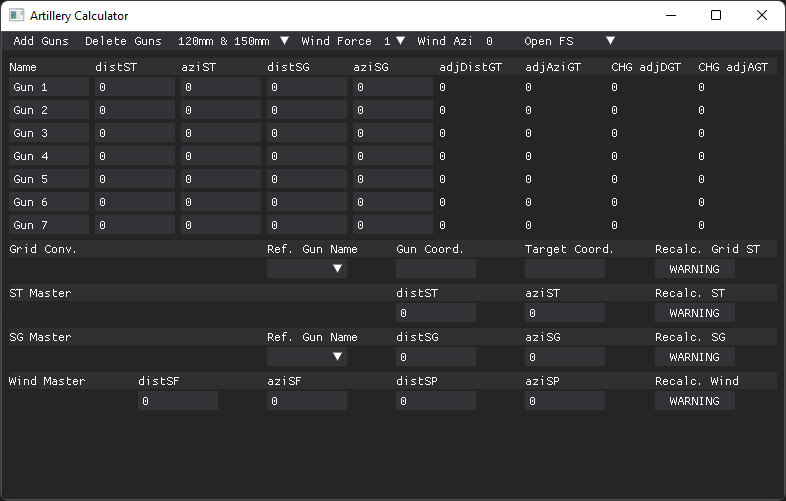
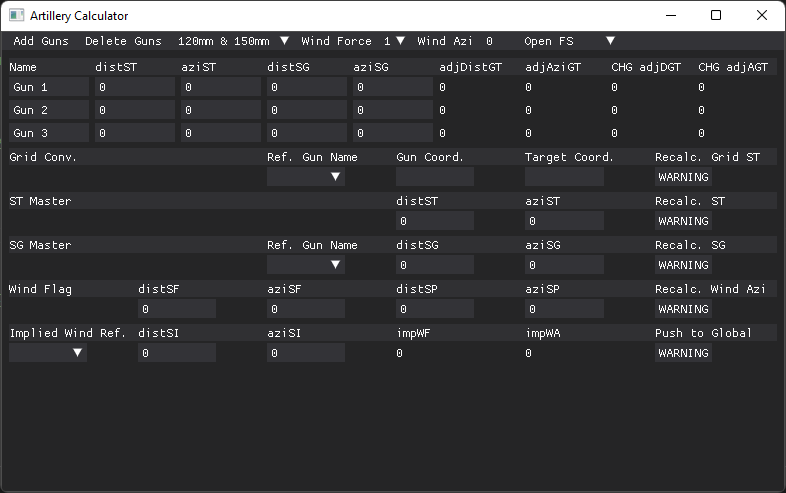
fix bugs

diff --git a/src/calcHelper.py b/src/calcHelper.py
@@ -158,21 +158,24 @@ def findWindAdjustedGunToTargetAziDist(unadjustedGunToTargetAzimuth, unadjustedG
         targetToGunAzimuth = unadjustedGunToTargetAzimuth + 180
     else:
         targetToGunAzimuth = unadjustedGunToTargetAzimuth - 180
+    
+    try:
+        extractedWF = float(windForce[5:])
+        adjustedGunToTargetAzimuth = findAzimuthGunToTarget(
+            oppositeWindAzimuth, extractedWF, targetToGunAzimuth, unadjustedGunToTargetDistance)
+        adjustedGunToTargetDist = findDistanceGunToTarget(
+            oppositeWindAzimuth, extractedWF, targetToGunAzimuth, unadjustedGunToTargetDistance)
 
-    if type(windForce) == int:
+    except:
+        windForce = int(windForce)
         adjustedGunToTargetAzimuth = findAzimuthGunToTarget(
             oppositeWindAzimuth, windForceMetersArray[windForce-1], targetToGunAzimuth, unadjustedGunToTargetDistance)
         adjustedGunToTargetDist = findDistanceGunToTarget(
             oppositeWindAzimuth, windForceMetersArray[windForce-1], targetToGunAzimuth, unadjustedGunToTargetDistance)
         if windForceMetersArray[windForce-1] == 0:
             adjustedGunToTargetAzimuth = unadjustedGunToTargetAzimuth
+        print(adjustedGunToTargetDist, adjustedGunToTargetAzimuth)
 
-    else: # "IWF: 50"
-        extractedWF = float(windForce[5:])
-        adjustedGunToTargetAzimuth = findAzimuthGunToTarget(
-            oppositeWindAzimuth, extractedWF, targetToGunAzimuth, unadjustedGunToTargetDistance)
-        adjustedGunToTargetDist = findDistanceGunToTarget(
-            oppositeWindAzimuth, extractedWF, targetToGunAzimuth, unadjustedGunToTargetDistance)
 
 
     return [unadjustedGunToTargetAzimuth, unadjustedGunToTargetDistance, adjustedGunToTargetAzimuth, adjustedGunToTargetDist]
